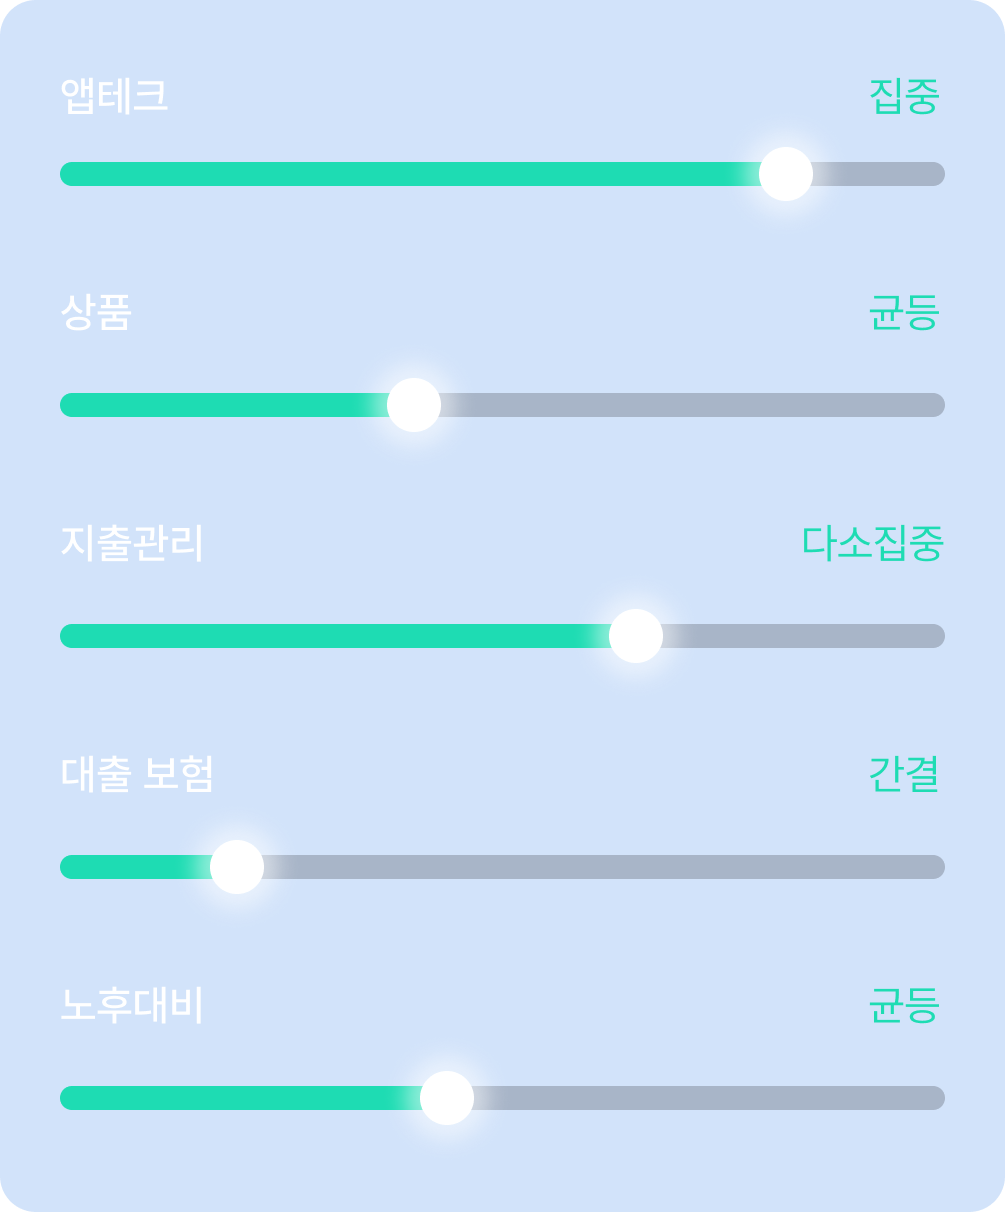
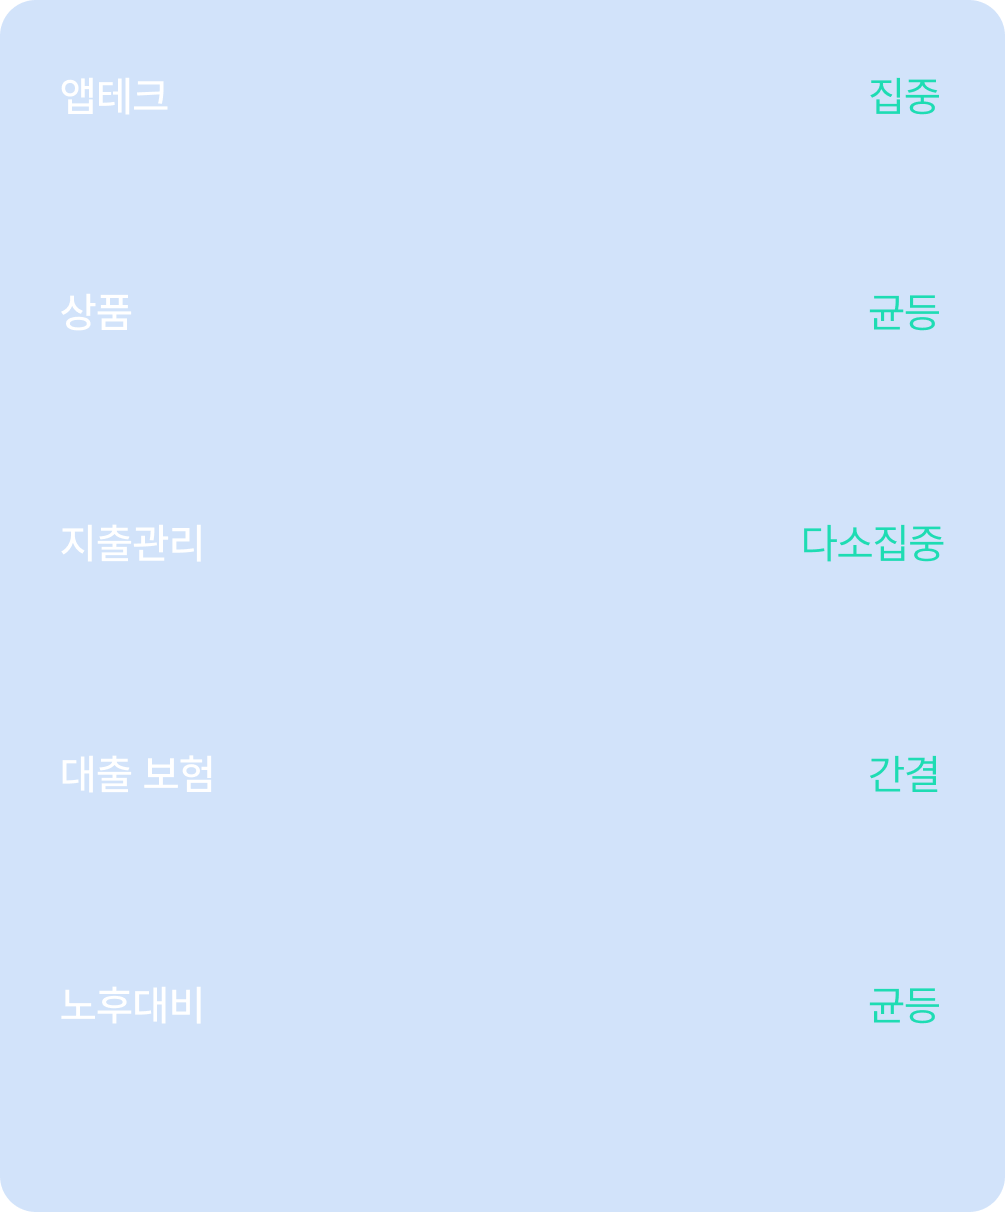
ai 설정

diff --git a/IBK/ai-set.html b/IBK/ai-set.html
@@ -12,10 +12,74 @@
         .aiset-box{position: relative;}
         .aiset-box a{position: absolute; top: 10px; left: 15px; width:35px; height: 35px;}
         .img-wrap {position:relative;}
-        .img-wrap.motion {margin:0 20px}
+        .img-wrap.motion {margin:0 20px;}
         .img-wrap.slider {margin:24px 20px 0}
-
-      
+        .motion .one {position:absolute;top:29%;left:18%;z-index:5;padding:5px;box-sizing:border-box;animation-name:motion6;animation-duration:10s;animation-delay:1s;animation-timing-function:linear;animation-fill-mode:forwards;animation-direction:normal;animation-iteration-count: infinite;}
+        .slide_wrap {position:absolute;z-index:5;width:100%}
+        .slide_wrap ul {position:relative;padding:0 20px}
+        .slide_wrap li.line1 {margin-top:54px; }
+        .slide_wrap li.line2 {margin-top:69px}
+        .slide_wrap li.line3 {margin-top:69px}
+        .slide_wrap li.line4 {margin-top:69px}
+        .slide_wrap li.line5 {margin-top:69px}
+        .slide_wrap li .bar {position:relative;display:flex;width:100%;height:8px;background:rgba(0,0,0,.2);border-radius:5px}
+        .slide_wrap li .bar .progress {position:absolute;top:0;left:0;display:inline-block;height:8px;background:#1EDCB3;border-radius:5px;z-index:5}
+        .slide_wrap li .bar .pointer {position:absolute;right:0;display:inline-block;margin-top:-18px;margin-right:-28px;z-index:10;}
+        .slide_wrap .line1 .progress {animation-name: motion1;animation-duration:10s;animation-delay:1s;animation-timing-function:linear;animation-fill-mode:forwards;animation-iteration-count: infinite;animation-direction:normal;width:80%}
+        .slide_wrap .line2 .progress {animation-name: motion2;animation-duration:10s;animation-delay:1s;animation-timing-function:linear;animation-fill-mode:forwards;animation-iteration-count: infinite;animation-direction:normal;width:38%}
+        .slide_wrap .line3 .progress {animation-name: motion3;animation-duration:10s;animation-delay:1s;animation-timing-function:linear;animation-fill-mode:forwards;animation-iteration-count: infinite;animation-direction:normal;width:63%}
+        .slide_wrap .line4 .progress {animation-name: motion4;animation-duration:10s;animation-delay:1s;animation-timing-function:linear;animation-fill-mode:forwards;animation-iteration-count: infinite;animation-direction:normal;width:18%}
+        .slide_wrap .line5 .progress {animation-name: motion5;animation-duration:10s;animation-delay:1s;animation-timing-function:linear;animation-fill-mode:forwards;animation-iteration-count: infinite;animation-direction:normal;width:41%}
+        @keyframes motion1 {
+            0% {width:80%;}
+            30% {width:90%;}
+            40% {width:90%;}
+            60% {width:70%;}
+            70% {width:70%;}
+            100% {width:80%;}
+            
+        }
+        @keyframes motion2 {
+            0% {width:38%;}
+            30% {width:68%;}
+            40% {width:68%;}
+            60% {width:50%;}
+            70% {width:50%;}
+            100% {width:38%;}
+        }
+        @keyframes motion3 {
+            0% {width:63%;}
+            30% {width:30%;}
+            40% {width:30%;}
+            60% {width:52%;}
+            70% {width:52%;}
+            100% {width:63%;}
+        }
+        @keyframes motion4 {
+            0% {width:18%;}
+            30% {width:42%;}
+            40% {width:42%;}
+            60% {width:70%;}
+            70% {width:70%;}
+            100% {width:18%;}
+        }
+        @keyframes motion5 {
+            0% {width:41%;}
+            30% {width:20%;}
+            40% {width:20%;}
+            60% {width:60%;}
+            70% {width:60%;}
+            100% {width:41%;}
+        }
+        @keyframes motion6 {
+            0% {top:29%;left:18%;}
+            30% {top:15%;left:68%;}
+            40% {top:15%;left:68%;}
+            60% {top:65%;left:50%;}
+            70% {top:65%;left:50%;}
+            100% {top:29%;left:18%;}
+        }
+    
       
     </style>
 </head>
@@ -31,9 +95,133 @@
                 <img src="./images/ai/ai-set-img1.jpg" alt=""> 
             </div>
             <div class="img-wrap motion">
+                <div class="one">
+                    <svg xmlns="http://www.w3.org/2000/svg" width="44" height="44" viewBox="0 0 44 44" fill="none">
+                        <g filter="url(#filter0_f_143_5412)">
+                        <circle cx="22" cy="22" r="14" fill="white" fill-opacity="0.5"/>
+                        </g>
+                        <circle cx="22" cy="22" r="9" fill="white"/>
+                        <defs>
+                        <filter id="filter0_f_143_5412" x="0" y="0" width="44" height="44" filterUnits="userSpaceOnUse" color-interpolation-filters="sRGB">
+                        <feFlood flood-opacity="0" result="BackgroundImageFix"/>
+                        <feBlend mode="normal" in="SourceGraphic" in2="BackgroundImageFix" result="shape"/>
+                        <feGaussianBlur stdDeviation="4" result="effect1_foregroundBlur_143_5412"/>
+                        </filter>
+                        </defs>
+                    </svg>
+                </div>
                 <img src="./images/ai/ai-set-img2.png" alt=""> 
             </div>
             <div class="img-wrap slider">
+                <div class="slide_wrap">
+                    <ul>
+                        <li class="line1">
+                            <div class="bar">
+                                <span class="progress pgl">
+                                    <span class="pointer">
+                                        <svg xmlns="http://www.w3.org/2000/svg" width="44" height="44" viewBox="0 0 44 44" fill="none">
+                                        <g filter="url(#filter0_f_3_9023)">
+                                        <circle cx="22" cy="22" r="14" transform="rotate(90 22 22)" fill="white" fill-opacity="0.5"/>
+                                        </g>
+                                        <circle cx="22" cy="22" r="9" transform="rotate(90 22 22)" fill="white"/>
+                                        <defs>
+                                        <filter id="filter0_f_3_9023" x="0" y="0" width="44" height="44" filterUnits="userSpaceOnUse" color-interpolation-filters="sRGB">
+                                        <feFlood flood-opacity="0" result="BackgroundImageFix"/>
+                                        <feBlend mode="normal" in="SourceGraphic" in2="BackgroundImageFix" result="shape"/>
+                                        <feGaussianBlur stdDeviation="4" result="effect1_foregroundBlur_3_9023"/>
+                                        </filter>
+                                        </defs>
+                                        </svg>
+                                    </span>
+                                </span>
+                            </div>
+                        </li>
+                        <li class="line2">
+                            <div class="bar">
+                                <span class="progress pg2">
+                                    <span class="pointer">
+                                        <svg xmlns="http://www.w3.org/2000/svg" width="44" height="44" viewBox="0 0 44 44" fill="none">
+                                        <g filter="url(#filter0_f_3_9023)">
+                                        <circle cx="22" cy="22" r="14" transform="rotate(90 22 22)" fill="white" fill-opacity="0.5"/>
+                                        </g>
+                                        <circle cx="22" cy="22" r="9" transform="rotate(90 22 22)" fill="white"/>
+                                        <defs>
+                                        <filter id="filter0_f_3_9023" x="0" y="0" width="44" height="44" filterUnits="userSpaceOnUse" color-interpolation-filters="sRGB">
+                                        <feFlood flood-opacity="0" result="BackgroundImageFix"/>
+                                        <feBlend mode="normal" in="SourceGraphic" in2="BackgroundImageFix" result="shape"/>
+                                        <feGaussianBlur stdDeviation="4" result="effect1_foregroundBlur_3_9023"/>
+                                        </filter>
+                                        </defs>
+                                        </svg>
+                                    </span>
+                                </span> 
+                            </div>
+                        </li>
+                        <li class="line3">
+                            <div class="bar">
+                                <span class="progress pg3">
+                                    <span class="pointer">
+                                        <svg xmlns="http://www.w3.org/2000/svg" width="44" height="44" viewBox="0 0 44 44" fill="none">
+                                        <g filter="url(#filter0_f_3_9023)">
+                                        <circle cx="22" cy="22" r="14" transform="rotate(90 22 22)" fill="white" fill-opacity="0.5"/>
+                                        </g>
+                                        <circle cx="22" cy="22" r="9" transform="rotate(90 22 22)" fill="white"/>
+                                        <defs>
+                                        <filter id="filter0_f_3_9023" x="0" y="0" width="44" height="44" filterUnits="userSpaceOnUse" color-interpolation-filters="sRGB">
+                                        <feFlood flood-opacity="0" result="BackgroundImageFix"/>
+                                        <feBlend mode="normal" in="SourceGraphic" in2="BackgroundImageFix" result="shape"/>
+                                        <feGaussianBlur stdDeviation="4" result="effect1_foregroundBlur_3_9023"/>
+                                        </filter>
+                                        </defs>
+                                        </svg>
+                                    </span>
+                                </span>
+                            </div>
+                        </li>
+                        <li class="line4">
+                            <div class="bar">
+                                <span class="progress pg4">
+                                    <span class="pointer">
+                                        <svg xmlns="http://www.w3.org/2000/svg" width="44" height="44" viewBox="0 0 44 44" fill="none">
+                                        <g filter="url(#filter0_f_3_9023)">
+                                        <circle cx="22" cy="22" r="14" transform="rotate(90 22 22)" fill="white" fill-opacity="0.5"/>
+                                        </g>
+                                        <circle cx="22" cy="22" r="9" transform="rotate(90 22 22)" fill="white"/>
+                                        <defs>
+                                        <filter id="filter0_f_3_9023" x="0" y="0" width="44" height="44" filterUnits="userSpaceOnUse" color-interpolation-filters="sRGB">
+                                        <feFlood flood-opacity="0" result="BackgroundImageFix"/>
+                                        <feBlend mode="normal" in="SourceGraphic" in2="BackgroundImageFix" result="shape"/>
+                                        <feGaussianBlur stdDeviation="4" result="effect1_foregroundBlur_3_9023"/>
+                                        </filter>
+                                        </defs>
+                                        </svg>
+                                    </span>
+                                </span>
+                            </div>
+                        </li>
+                        <li class="line5">
+                            <div class="bar">
+                                <span class="progress pg5">
+                                    <span class="pointer">
+                                        <svg xmlns="http://www.w3.org/2000/svg" width="44" height="44" viewBox="0 0 44 44" fill="none">
+                                        <g filter="url(#filter0_f_3_9023)">
+                                        <circle cx="22" cy="22" r="14" transform="rotate(90 22 22)" fill="white" fill-opacity="0.5"/>
+                                        </g>
+                                        <circle cx="22" cy="22" r="9" transform="rotate(90 22 22)" fill="white"/>
+                                        <defs>
+                                        <filter id="filter0_f_3_9023" x="0" y="0" width="44" height="44" filterUnits="userSpaceOnUse" color-interpolation-filters="sRGB">
+                                        <feFlood flood-opacity="0" result="BackgroundImageFix"/>
+                                        <feBlend mode="normal" in="SourceGraphic" in2="BackgroundImageFix" result="shape"/>
+                                        <feGaussianBlur stdDeviation="4" result="effect1_foregroundBlur_3_9023"/>
+                                        </filter>
+                                        </defs>
+                                        </svg>
+                                    </span>
+                                </span>
+                            </div>
+                        </li>
+                    </ul>
+                </div>
                 <img src="./images/ai/ai-set-img3.png" alt=""> 
             </div>
             <div class="img-wrap">
